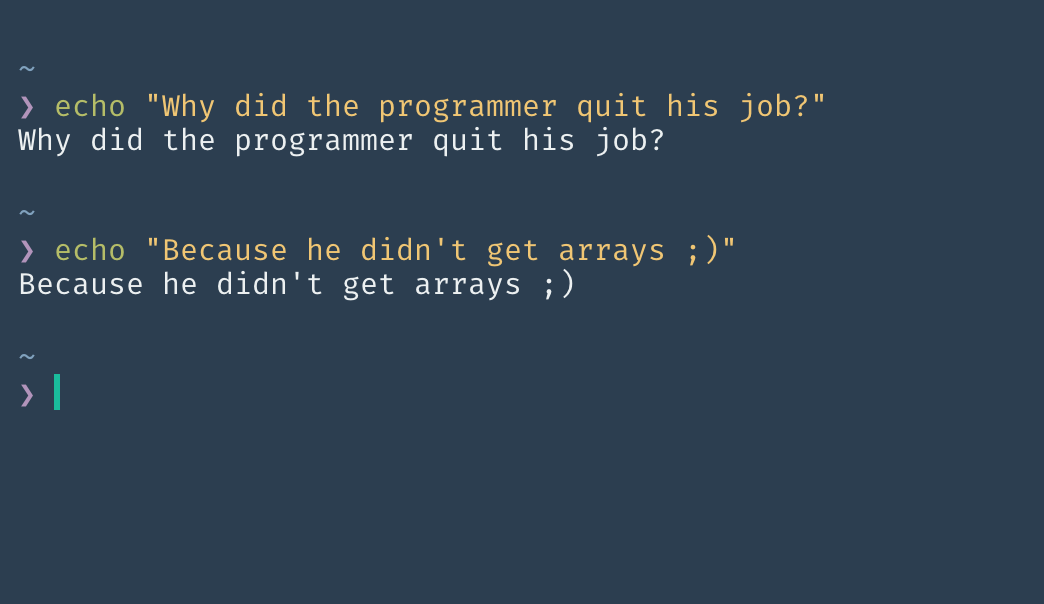
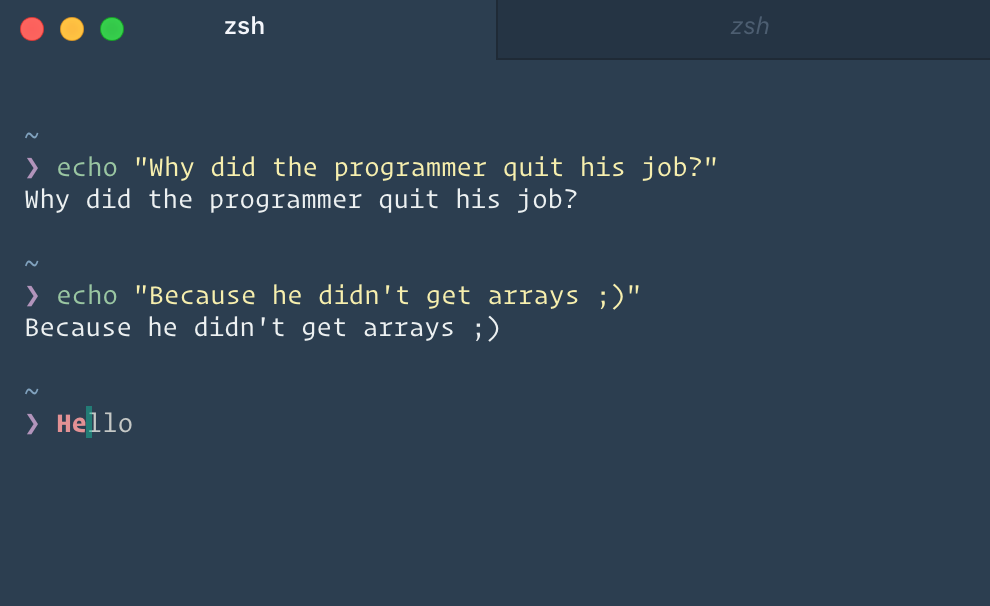
:trollface: Change some stuff

diff --git a/lib/theme.js b/lib/theme.js
@@ -1,0 +1,112 @@
+// Suntax shceme
+const foregroundColor = '#ecf0f1'
+const backgroundColor = '#2c3e50'
+const cursorColor = '#1abc9c'
+const borderColor = backgroundColor
+const fontSize = 14
+const colors = {
+  black: '#1d1f21',
+  red: '#cc6666',
+  green: '#9ac6a2',
+  yellow: '#F7EFAE',
+  blue: '#81a2be',
+  magenta: '#b294bb',
+  cyan: '#8abeb7',
+  white: '#f4f6fb',
+  lightBlack: '#c5c8c6',
+  lightRed: '#E39194',
+  lightGreen: '#b2d2b8',
+  lightYellow: '#f7f1c0',
+  lightBlue: '#99b1c4',
+  lightMagenta: '#b9a4bf',
+  lightCyan: '#99c6c0',
+  lightWhite: '#edf0f5'
+}
+
+module.exports = (config) => {
+  const themeOptions = config.themeOptions || {}
+
+  return {
+    foregroundColor: themeOptions.foregroundColor || foregroundColor,
+    backgroundColor: themeOptions.backgroundColor || backgroundColor,
+    borderColor: themeOptions.borderColor || borderColor,
+    cursorColor: themeOptions.cursorColor || cursorColor,
+    colors: themeOptions.colors || colors,
+    fontSize: themeOptions.fontSize || fontSize,
+    cursorShape: themeOptions.cursorShape || 'BEAM',
+    termCSS: `
+            ${config.termCSS || ''}
+            ::selection {
+                background: rgba(236, 240, 241, 0.1) !important;
+            }
+
+            .cursor-node[focus=true]:not([moving]) {
+                animation: blink 1s ease infinite;
+            }
+            @keyframes blink {
+                50% {
+                    opacity: 0;
+                }
+            }
+        `,
+    css: `
+            ${config.css || ''}
+            :selection {
+                background: rgba(236, 240, 241, 0.1) !important;
+            }
+            .header_header {
+                top: 0;
+                right: 0;
+                left: 0;
+            }
+            .tabs_list {
+                background-color: #253444;
+                border-bottom-color: #1f2a36 !important;
+            }
+            .tab_first {
+                margin-left: -1px;
+                border: 0 !important;
+            }
+            .tab_tab {
+                color: #4d5e71;
+                transition: background 150ms ease;
+                font-style: italic;
+            }
+            .tab_tab:hover {
+                color: #f4f6fb;
+                background-color: #2a3949;
+            }
+            .tab_tab.tab_active {
+                color: #f4f6fb;
+                font-weight: 600;
+                font-style: normal;
+                background-color: ${backgroundColor};
+                border-color: #1f2a36 !important;
+            }
+            .tab_tab.tab_active::before {
+                border-bottom-color: ${backgroundColor};
+            }
+            .tab_tab.tab_hasActivity {
+                color: #1abc9c;
+                animation: pulse 3s ease-in-out infinite;
+            }
+            .tab_tab.tab_hasActivity:hover {
+                animation: none;
+            }
+            @keyframes pulse {
+                0% {
+                    opacity: 1;
+                }
+                50% {
+                    opacity: 1;
+                }
+                75% {
+                    opacity: 0.5;
+                }
+              100% {
+                    opacity: 1;
+                }
+            }
+        `
+  }
+}

diff --git a/index.js b/index.js
@@ -1,40 +1,6 @@
-'use strict';
-const foregroundColor = '#ecf0f1';
-const backgroundColor = '#2c3e50';
-const red = '#cc6666';
-const green = '#b5bd68';
-const yellow = '#f0c674';
-const blue = '#81a2be';
-const magenta = '#b294bb';
-const cyan = '#8abeb7';
+const theme = require('./lib/theme')
+console.log(theme.toString())
 
-exports.decorateConfig = config => Object.assign({}, config, {
-	backgroundColor,
-	foregroundColor,
-	borderColor: '#22303e',
-	cursorColor: '#1abc9c',
-	colors: {
-		black: backgroundColor,
-		red,
-		green,
-		yellow,
-		blue,
-		magenta,
-		cyan,
-		white: '#f1f1f0',
-		lightBlack: '#373b41',
-		lightRed: red,
-		lightGreen: green,
-		lightYellow: yellow,
-		lightBlue: blue,
-		lightMagenta: magenta,
-		lightCyan: cyan,
-		lightWhite: foregroundColor
-	},
-	css: `
-		${config.css}
-		.tab_active:before {
-			border-color: rgba(236, 240, 241, 0.1);
-		}
-	`
-});
+exports.decorateConfig = config => {
+  return Object.assign({}, config, theme(config))
+}

diff --git a/lib/theme.test.js b/lib/theme.test.js
@@ -1,0 +1,7 @@
+const lib = require('./theme')
+const test = require('ava')
+
+test('should be an object', (t) => {
+  const theme = lib({})
+  t.is(typeof theme, 'object')
+})

diff --git a/README.md b/README.md
@@ -14,7 +14,7 @@ Add `hyperterm-hipster` to the plugins list in your `~/.hyperterm.js` config fil
 
 
 ## Tip
-To get the exact same look as in the screenshot, you need to use the [Pure](https://github.com/sindresorhus/pure) prompt and the [zsh-syntax-highlighting](https://github.com/zsh-users/zsh-syntax-highlighting) plugin to have commands highlighted.
+To get the exact same look as in the screenshot, you need to use the [Pure](https://github.com/sindresorhus/pure) prompt, [zsh-syntax-highlighting](https://github.com/zsh-users/zsh-syntax-highlighting) plugin, [zsh-autosuggestions](https://github.com/zsh-users/zsh-autosuggestions) plugin and [Operator Mono](http://www.typography.com/blog/introducing-operator) font.
 
 
 ## License
